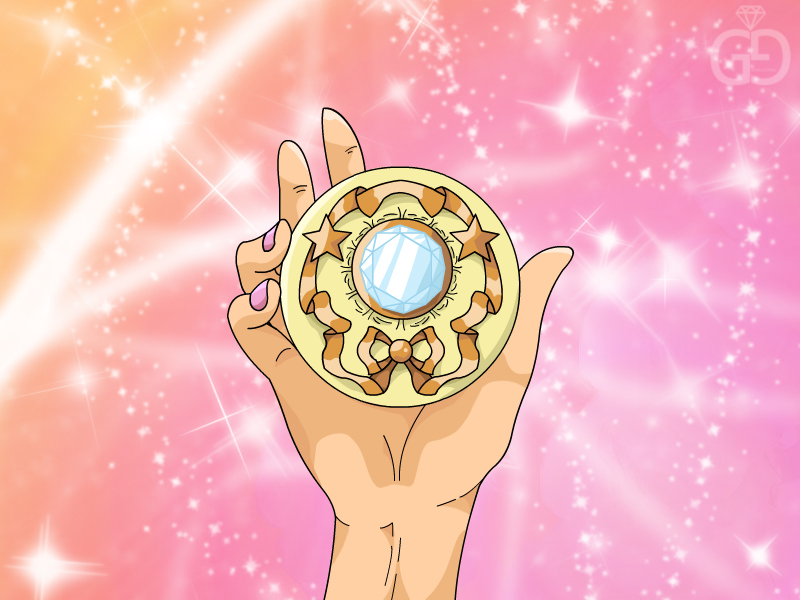
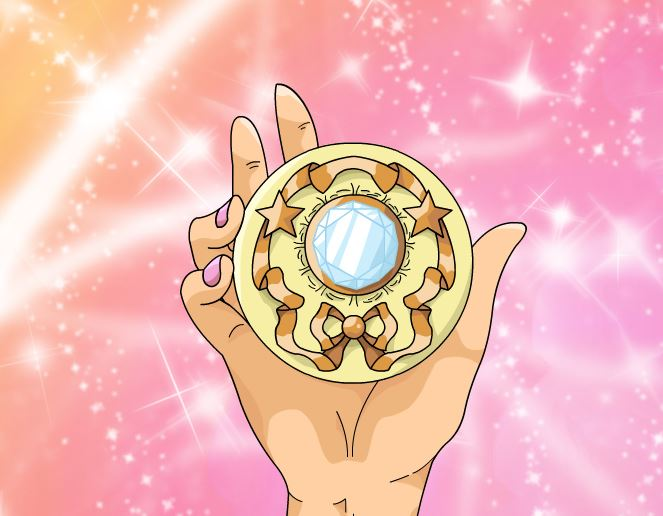
added new bg image

diff --git a/index.html b/index.html
@@ -34,18 +34,15 @@
 <br />
 <br />
     <div class="buttons">
-        <button class="crystal" id="crystal1" value="5"><img src="assets/images/crystal1.JPG"><br />Moon
+        <button class="crystal" id="crystal1" value="5"><img src="assets/images/crystal1.JPG"><br /><br />Moon
             Crystal</button>
-        <button class="crystal" id="crystal2" value="10"><img src="assets/images/crystal2.JPG"><br />Princess
+        <button class="crystal" id="crystal2" value="10"><img src="assets/images/crystal2.JPG"><br /><br />Princess
             Crystal</button>
-        <button class="crystal" id="crystal3" value="15"><img src="assets/images/crystal3.JPG"><br />Star
+        <button class="crystal" id="crystal3" value="15"><img src="assets/images/crystal1.JPG"><br /><br />Star
             Crystal</button>
-        <button class="crystal" id="crystal4" value="20"><img src="assets/images/crystal4.JPG"><br />Cosmic
+        <button class="crystal" id="crystal4" value="20"><img src="assets/images/crystal2.JPG"><br /><br />Cosmic
             Crystal</button>
     </div>
-<br />
-<br />
-<br />
 <br />
 <br />
 <br />

diff --git a/assets/css/style.css b/assets/css/style.css
@@ -11,7 +11,7 @@ h1 {
 }
 
 body {
-    background-image: url("../images/crystal.jpg");
+    background-image: url("../images/");
     height: 100%;
     background-repeat: no-repeat;
     background-size: cover;
@@ -32,5 +32,22 @@ body {
 }
 
 .buttons {
+display: inline-flex;
+font-family: 'Shadows Into Light', cursive;
+}
 
+.crystal1 {
+background-size: 10px;
+}
+
+.crystal2{
+background-size: 10px;
+}
+
+.crystal3{
+background-size: 10px;
+}
+
+.crystal4{
+background-size: 10px;
 }
